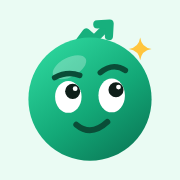
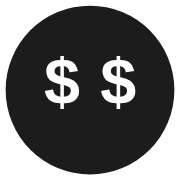
feat(brand): black circular face with white $ eyes; all orbs use $ eyes
Drops the green body, brows, smile, rising-arrow tuft and sparkle.  OrbMark is one face for every orb:
orb:finbot is black (#1c1c1c, #3a3a3a in dark), orb:<colour> keeps its body colour; the $ pair follows
the pointer.  logo/favicon/lockup SVGs and apple-touch-icon.png (headless Chrome) match.  Removes the
unused randomOrbColor; new bots already default to orb:finbot.  Deploy notes appended.

diff --git a/frontend/src/BotOrb.tsx b/frontend/src/BotOrb.tsx
@@ -1,6 +1,6 @@
-// The FinBot orb (UX batch 2, P2): a round orb with two eyes whose pupils follow the pointer.  Drawn here, not
-// copied from any product.  `orb:finbot` is the brand orb (logo.svg: brows, a sideways smile, a rising-arrow tuft).  Older emoji or
-// text avatars are shown as they were.
+// The FinBot orb: a round face whose two eyes are white `$` signs that follow the pointer.  Drawn here, not
+// copied from any product.  `orb:finbot` is the brand face (logo.svg, black); `orb:<colour>` is the same face
+// in that colour.  Older emoji or text avatars are shown as they were.
 import { useEffect, useMemo, useRef } from "react";
 import { createGazeHub, parseAvatar, type GazeHub } from "./orb.mjs";
 
@@ -13,13 +13,12 @@ function blinkDelay(seed: string) {
   return `${(h % 4000) / 1000}s`;
 }
 
-export function OrbMark({ color, brand, pupils }: { color: string; brand: boolean; pupils?: React.Ref<SVGGElement> }) {
+export function OrbMark({ color, pupils }: { color: string; pupils?: React.Ref<SVGGElement> }) {
   const id = useMemo(() => `orb-${Math.random().toString(36).slice(2, 9)}`, []);
-  if (brand) return <BrandMark id={id} pupils={pupils} />;
   return <svg viewBox="0 0 64 64" aria-hidden="true" focusable="false" style={{ ["--orb" as string]: `var(--orb-${color})` }}>
     <defs>
       <radialGradient id={`${id}-shine`} cx="34%" cy="28%" r="70%">
-        <stop offset="0" stopColor="#fff" stopOpacity=".38" />
+        <stop offset="0" stopColor="#fff" stopOpacity=".22" />
         <stop offset=".55" stopColor="#fff" stopOpacity="0" />
         <stop offset="1" stopColor="#000" stopOpacity=".16" />
       </radialGradient>
@@ -27,50 +26,11 @@ export function OrbMark({ color, brand, pupils }: { color: string; brand: boolea
     <circle cx="32" cy="32" r="30" fill="var(--orb)" />
     <circle cx="32" cy="32" r="30" fill={`url(#${id}-shine)`} />
     <g className="orb-eyes">
-      <ellipse cx="23.5" cy="27" rx="5.6" ry="8.2" fill="#fff" />
-      <ellipse cx="40.5" cy="27" rx="5.6" ry="8.2" fill="#fff" />
-      <g ref={pupils} className="orb-pupils">
-        <circle cx="23.5" cy="28" r="3" fill="#111" />
-        <circle cx="40.5" cy="28" r="3" fill="#111" />
+      <g ref={pupils} className="orb-pupils" fill="#fff" fontFamily="'Helvetica Neue',Arial,sans-serif" fontSize="23" fontWeight="700" textAnchor="middle">
+        <text x="22" y="37">$</text>
+        <text x="42" y="37">$</text>
       </g>
     </g>
-  </svg>;
-}
-
-// The brand orb (UX batch 3): the logo.svg drawing — raised brows, a sideways smile and a rising-arrow tuft
-// with a gold sparkle — with the pupils still following the pointer.
-function BrandMark({ id, pupils }: { id: string; pupils?: React.Ref<SVGGElement> }) {
-  const ink = "#0A4D37";
-  return <svg viewBox="0 0 64 64" aria-hidden="true" focusable="false">
-    <defs>
-      <linearGradient id={`${id}-body`} x1="18%" y1="8%" x2="82%" y2="96%">
-        <stop offset="0" stopColor="#2BD39A" />
-        <stop offset=".55" stopColor="#13A877" />
-        <stop offset="1" stopColor="#0B7C59" />
-      </linearGradient>
-    </defs>
-    <g className="orb-tuft" fill="none" stroke="#17B07D" strokeWidth="3.6" strokeLinecap="round" strokeLinejoin="round">
-      <path d="M26.5 12 L30.4 6.8 L33.8 9.8 L39.4 4.2" />
-      <path d="M35.2 3.2 L40.6 2.9 L40.3 8.3" />
-    </g>
-    <path className="orb-sparkle" d="M54 9 Q54.6 13.4 59 14 Q54.6 14.6 54 19 Q53.4 14.6 49 14 Q53.4 13.4 54 9 Z" fill="#FFC53D" />
-    <circle cx="32" cy="36" r="27" fill={`url(#${id}-body)`} />
-    <ellipse cx="23" cy="22" rx="8" ry="4.2" transform="rotate(-28 23 22)" fill="#fff" fillOpacity=".28" />
-    <g fill="none" stroke={ink} strokeWidth="2.4" strokeLinecap="round">
-      <path d="M16.5 26.6 Q22 23.6 27.5 25.6" />
-      <path d="M36.5 24.4 Q42 19.8 47.5 23.4" />
-    </g>
-    <g className="orb-eyes">
-      <ellipse cx="22.5" cy="35" rx="5.8" ry="7" fill="#fff" />
-      <ellipse cx="41.5" cy="34.4" rx="5.8" ry="7.4" fill="#fff" />
-      <g ref={pupils} className="orb-pupils">
-        <circle cx="24.4" cy="32.6" r="3.3" fill="#0F1F19" />
-        <circle cx="43.4" cy="31.9" r="3.3" fill="#0F1F19" />
-        <circle cx="25.5" cy="31.4" r="1.05" fill="#fff" />
-        <circle cx="44.5" cy="30.7" r="1.05" fill="#fff" />
-      </g>
-    </g>
-    <path d="M26 47.2 Q32.5 52.6 39.6 46" fill="none" stroke={ink} strokeWidth="2.6" strokeLinecap="round" />
   </svg>;
 }
 
@@ -83,6 +43,6 @@ export function BotOrb({ avatar, name, size = 28, track = false, className = "" 
   }, [track, parsed.kind]);
   if (parsed.kind === "text") return <span className={`bot-avatar ${className}`.trim()} aria-hidden="true">{parsed.text}</span>;
   return <span ref={holder} className={`bot-orb ${className}`.trim()} aria-hidden="true" style={{ width: size, height: size, ["--blink-delay" as string]: blinkDelay(name) }}>
-    <OrbMark color={parsed.color} brand={parsed.brand} pupils={pupils} />
+    <OrbMark color={parsed.color} pupils={pupils} />
   </span>;
 }

diff --git a/frontend/src/grok.css b/frontend/src/grok.css
@@ -151,12 +151,12 @@ body { -webkit-font-smoothing: antialiased; }
 
 /* --- FinBot orb avatars (UX batch 2, P2) ------------------------------------------------------- */
 :root {
-  --orb-finbot: #12a374; --orb-black: #1c1c1c; --orb-brown: #a2653a; --orb-red: #e53935; --orb-orange: #f26b1d;
+  --orb-finbot: #1c1c1c; --orb-black: #1c1c1c; --orb-brown: #a2653a; --orb-red: #e53935; --orb-orange: #f26b1d;
   --orb-yellow: #f2a516; --orb-green: #22b45f; --orb-teal: #14a89a; --orb-blue: #2f7cf6; --orb-purple: #8f5cf2;
   --orb-pink: #f0388f; --orb-gray: #8a8a8a;
 }
 :root[data-theme="dark"] {
-  --orb-finbot: #22c28a; --orb-black: #3a3a3a; --orb-brown: #c07d4c; --orb-red: #f25a56; --orb-orange: #ff8540;
+  --orb-finbot: #3a3a3a; --orb-black: #3a3a3a; --orb-brown: #c07d4c; --orb-red: #f25a56; --orb-orange: #ff8540;
   --orb-yellow: #ffbd3d; --orb-green: #3fcd7b; --orb-teal: #2cc4b5; --orb-blue: #5b9bff; --orb-purple: #a77dff;
   --orb-pink: #ff5aa8; --orb-gray: #a3a3a3;
 }
@@ -164,10 +164,8 @@ body { -webkit-font-smoothing: antialiased; }
 .bot-orb svg { width: 100%; height: 100%; display: block; overflow: visible; }
 .orb-pupils { transition: transform .12s ease-out; }
 .orb-eyes { transform-box: fill-box; transform-origin: center; animation: orb-blink 5.5s infinite; animation-delay: var(--blink-delay, 0s); }
-.orb-sparkle { transform-box: fill-box; transform-origin: center; animation: orb-twinkle 3.2s ease-in-out infinite; }
-@keyframes orb-twinkle { 0%, 70%, 100% { transform: scale(1); opacity: 1; } 82% { transform: scale(.55) rotate(45deg); opacity: .7; } }
 @keyframes orb-blink { 0%, 94%, 100% { transform: scaleY(1); } 96.5% { transform: scaleY(.12); } }
-@media (prefers-reduced-motion: reduce) { .orb-eyes, .orb-sparkle { animation: none; } .orb-pupils { transition: none; transform: none !important; } }
+@media (prefers-reduced-motion: reduce) { .orb-eyes { animation: none; } .orb-pupils { transition: none; transform: none !important; } }
 .agent-title-row .bot-orb { width: 30px; height: 30px; }
 .bot-orb-hero { display: grid; justify-items: center; gap: 6px; margin: 4px 0 14px; }
 .bot-orb-hero small { color: var(--me-muted); font-size: 12px; }

diff --git a/docs/superpowers/plans/2026-10-27-personal-agent.deploy-notes.md b/docs/superpowers/plans/2026-10-27-personal-agent.deploy-notes.md
@@ -474,3 +474,21 @@ Five stage commits on `worktree-personal-agent` (not pushed): `1340187` memory b
 5. Not done: ponytail on the box CLIs is CodeBot's (no AGENTS.md in this repo, nothing added).  The old
    `model-profiles.mjs` storage code and `/agent-chat/local-model-profiles` stay for now (only its provider list is
    still used); remove in a later cleanup.
+
+## UX batch 3 hotfix — 添加模型 clickable again; black `$` face for the logo and every orb
+
+Frontend only, no migration, no backend restart.  Hard-refresh the browser (favicon may need a tab reopen).
+
+1. **「＋ 添加模型」 was unclickable.**  The dialog's backdrop sits inside the settings card, which is a direct
+   child of `main.agent-admin`; opening the dialog marked every `main` child `inert` except `.profile-backdrop`,
+   so the card holding the dialog went inert too.  Now every child is inerted except the one that contains the
+   dialog (`siblingsToInert` in `catalog-form.mjs`).  Escape / Tab trap / focus restore / click-outside unchanged.
+2. **Logo + orbs.**  One face for everything: a round body with two white `$` eyes that follow the pointer
+   (centred under 减少动态效果).  `orb:finbot` (and the old `★`) is that face in black — the brand mark,
+   `logo.svg`, `favicon.svg`, `logo-lockup.svg`, `apple-touch-icon.png` (180×180, headless Chrome).
+   `orb:<colour>` is the same face in that colour.  New bots already default to `orb:finbot`, i.e. black `$`
+   (the unused `randomOrbColor` is gone).  No DB rewrite: existing orb avatars pick up the new face on render;
+   bots with emoji/text avatars are unchanged — owners can switch to 圆球 in 档案.
+
+Mac check: `cd frontend && npm run test:i18n && npm run build`, then open 设置 → 模型 → ＋ 添加模型 and type into
+the fields; check the header logo, favicon and a bot avatar show the black `$` face.
